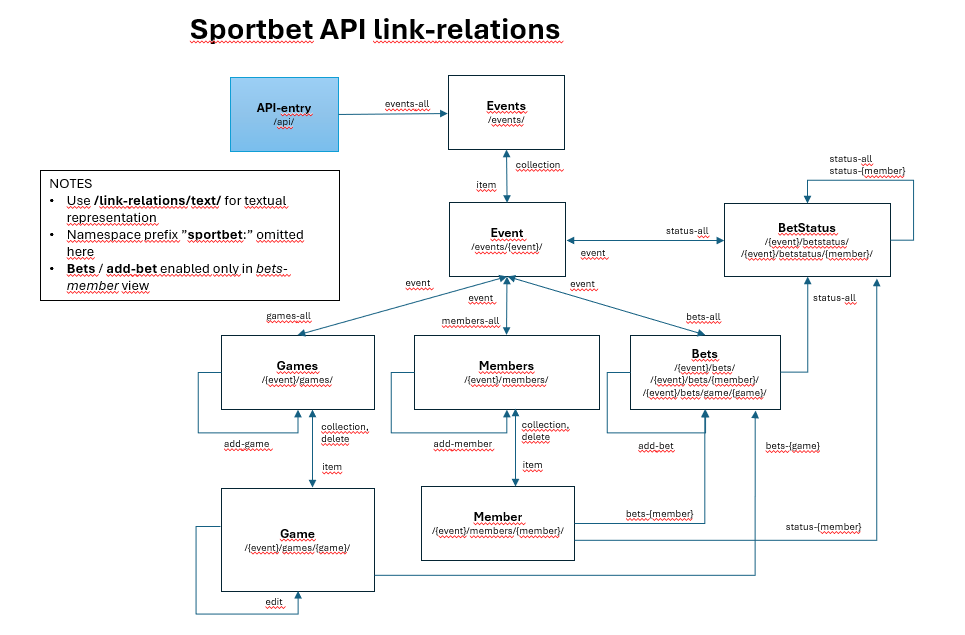
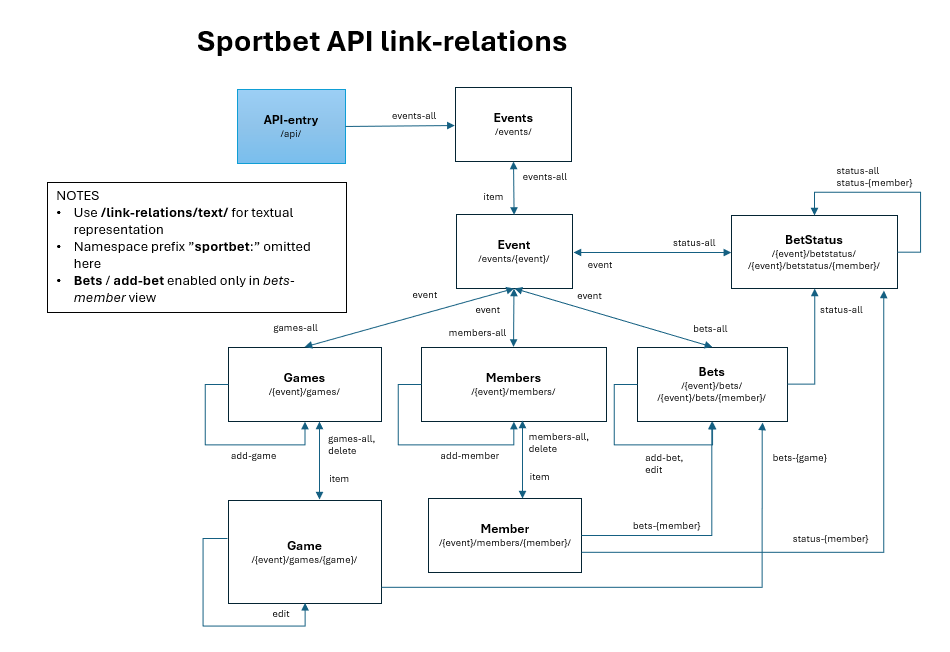
1. bet.py: split BetsMember POST to POST and PUT 2. member.py: removed transition from member to event 3. link-relations.png: updated for steps 1. and 2. 4. sportbet.yml: updated for steps 1. and 2. 5. utils.py: added comments for functions

Changed region(s): [[0.0305, 0.1197, 0.9768, 0.9874], [0.1832, 0.0299, 0.6105, 0.0898]]

diff --git a/sportbet-app/sportbet/utils.py b/sportbet-app/sportbet/utils.py
@@ -11,7 +11,14 @@ from sportbet.models import Event, Member, Game, Bet, ApiKey
 #  Used by multiple other files.
 # ------------------------------------------------------
 
-# Return local file content in response 
+"""
+Return local file content in response.
+    Parameters:
+     -  filename: full path to the file
+    Returns:
+     - 200 and file contents if successful
+     - 400 if file not found
+"""
 def send_local_file(filename):
     try:
         file = open(filename, "r") 
@@ -23,11 +30,27 @@ def send_local_file(filename):
     hdrs = {"Content-type": content_type}
     return Response(body, status = 200, headers=hdrs)
 
+"""
+Debug function to print the given message to the console.
+Hard-coded, switch "pass" and print() to disable/enable debugging.
+    Parameters:
+    - msg: message string to be printed
+    Returns:
+    - none
+"""
 def debug_print(msg):
     pass
     #print(msg)
 
-# Crete MASON-error for failed requests
+"""
+Crete MASON-error for failed requests.
+    Parameters:
+    - status: status code of the response
+    - title: error title as string
+    - msg: optional further explanation of the error
+    Returns:
+    - Response object for the error
+"""
 def error_response(status, title, msg=None):
     target_url = request.path
     data = MasonBuilder(resource_url=target_url)
@@ -35,7 +58,10 @@ def error_response(status, title, msg=None):
     data.add_control("profile", href=ERROR_PROFILE)
     return Response(json.dumps(data), status, mimetype=MASON)
 
-# Admin API-key validation - not used currently
+"""
+Admin API-key validation wrapper function - not used currently.
+To be used for admin API functionality in the future versions of API.
+"""
 def require_ADMIN_key(func):
     def wrapper(*args, **kwargs):
         key_hash = ApiKey.key_hash(request.headers.get(SPORTBET_API_KEY_NAME, "").strip())
@@ -45,11 +71,21 @@ def require_ADMIN_key(func):
         raise Forbidden
     return wrapper
 
-# Non-admin user API-key validation
+"""
+API-key validation, use as wrapper for each resource method which needs to 
+be protected from the outsiders.
+
+API-key is created by admin with click command "flask db-fill", save the 
+printed key for client software.
+
+NOTE: enable/disable for testing (browser usually) by commenting/un-commenting
+      the line 
+      "return func(self, *args, **kwargs)"
+"""
 def validate_API_key(func):
     def wrapper(self, *args, **kwargs):
         # Enable browser testing by uncommenting next line
-        # return func(self, *args, **kwargs)
+        return func(self, *args, **kwargs)
         if SPORTBET_API_KEY_NAME in request.headers:
             key_hash = ApiKey.key_hash(request.headers.get(SPORTBET_API_KEY_NAME).strip())
             db_key = ApiKey.query.filter_by(admin=False).first()
@@ -58,10 +94,12 @@ def validate_API_key(func):
         raise Forbidden
     return wrapper
     
-# ----------------- CONVERTERS -------------------------
-#  Convert string-identifier <--> Python database object
-# ------------------------------------------------------
-
+"""
+-------------------------------- CONVERTERS -------------------------------
+ Convert string-identifier <--> Python database object.
+ Registered in __init.py__ for resources using object identifiers in URLs. 
+--------------------------------------------------------------------------- 
+"""
 class EventConverter(BaseConverter):
     def to_python(self, event_name):
         db_obj = Event.query.filter_by(name=event_name).first()
@@ -212,7 +250,11 @@ class MasonBuilder(dict):
             method="DELETE",
             title=title,
         )
-        
+
+"""
+API-specific MASON-builder. Resources use these classes and methods to 
+create hypertext-responses e.g. for automated clients.
+"""      
 class SportbetBuilder(MasonBuilder):
 
     # GET controls to show items
@@ -319,7 +361,7 @@ class SportbetBuilder(MasonBuilder):
     def add_control_add_bet(self, event, member):
         self.add_control_post(
             SPORTBET_NAMESPACE + ":add-bet",
-            "Add or edit bet for " + member.nickname,
+            "Add bet for " + member.nickname,
             url_for("api.betsmember", event=event, member=member),
             Bet.json_schema(full_format=False)
         )
@@ -330,4 +372,10 @@ class SportbetBuilder(MasonBuilder):
             "Edit game",
             url_for("api.gameitem", event=event, game=game),
             Game.json_schema(only_goals=True)
+        )
+    def add_control_edit_bet(self, event, member):
+        self.add_control_put(
+            "Edit bet",
+            url_for("api.betsmember", event=event, member=member),
+            Bet.json_schema(full_format=False)
         )

diff --git a/sportbet-app/sportbet/resources/bet.py b/sportbet-app/sportbet/resources/bet.py
@@ -46,6 +46,7 @@ class BetsMember(Resource):
         body.add_control("self", url_for("api.betsmember", event=event, member=member), title="This resource")
         body.add_control_all_bets(event)
         body.add_control_add_bet(event, member)
+        body.add_control_edit_bet(event, member)
         bets = Bet.query.filter_by(member=member).join(Bet.game).order_by(Game.game_nbr).all()
         body["items"] = []
         for bet in bets:
@@ -57,8 +58,42 @@ class BetsMember(Resource):
     @validate_API_key
     def post(self, event, member):
         """
-        Add new bet if not existing for this member for the given game.
-        If bet is already found, update bet data (PUT method not needed).
+        Add new bet for the given member (if not existing for the given game).
+        """
+        try:
+            if not request.json:
+                return error_response(415, "Unsupported media type", "JSON required")
+            validate(request.json, Bet.json_schema(full_format=False))
+            bet = Bet()
+            bet.deserialize(request.json)
+            if bet.home_goals < 0 or bet.guest_goals < 0:
+                return error_response(401, "Bet goals must not be negative")
+            game = Game.query.filter_by(event=event, game_nbr=bet.game_nbr).first()
+            if not game:
+                return error_response(404, "Game not found")
+            # check bet not already existing
+            old_bet = Bet.query.filter_by(game=game, member=member).first()
+            if old_bet:
+                return error_response(409, "Bet already exists for the given member and game")
+            # set relations and save the bet
+            bet.member = member
+            bet.game = game
+            db.session.add(bet)
+            db.session.commit()
+            debug_print(event.name + "/Game-" + game.game_nbr + "/" + member.nickname + "/" + game.home_team + "-" + game.guest_team + " " + str(bet.home_goals) + "-" + str(bet.guest_goals) + " bet added")
+            hdrs = {"Location": url_for("api.betsmember", event=event, member=member)}
+            return Response(status=201, headers=hdrs)
+        except ValidationError as e:
+            return error_response(400, "Invalid JSON document", str(e))
+        except KeyError:
+            return error_response(400, "Missing parameter", "See schema requirements")
+        except ValueError:
+            return error_response(400, "Invalid parameter format", "See schema requirements")
+
+    @validate_API_key
+    def put(self, event, member):
+        """
+        Update bet for the given member.
         """
         try:
             if not request.json:
@@ -71,19 +106,15 @@ class BetsMember(Resource):
             game = Game.query.filter_by(event=event, game_nbr=request_bet.game_nbr).first()
             if not game:
                 return error_response(404, "Game not found")
-            # create new bet if old not found
             bet = Bet.query.filter_by(game=game, member=member).first()
-            status_code = 204
             if not bet:
-                status_code = 201
-                bet = Bet(member=member, game=game)
-                db.session.add(bet)
+                return error_response(404, "Bet not found")
             bet.home_goals = request_bet.home_goals
             bet.guest_goals = request_bet.guest_goals
             db.session.commit()
-            debug_print(event.name + "/Game-" + game.game_nbr + "/" + member.nickname + "/" + game.home_team + "-" + game.guest_team + " " + str(bet.home_goals) + "-" + str(bet.guest_goals) + " bet saved")
+            debug_print(event.name + "/Game-" + game.game_nbr + "/" + member.nickname + "/" + game.home_team + "-" + game.guest_team + " " + str(bet.home_goals) + "-" + str(bet.guest_goals) + " bet updated")
             hdrs = {"Location": url_for("api.betsmember", event=event, member=member)}
-            return Response(status = status_code, headers = hdrs)
+            return Response(status = 204, headers = hdrs)
         except ValidationError as e:
             return error_response(400, "Invalid JSON document", str(e))
         except KeyError:

diff --git a/sportbet-app/sportbet/resources/member.py b/sportbet-app/sportbet/resources/member.py
@@ -68,7 +68,6 @@ class MemberItem(Resource):
         body.add_namespace(SPORTBET_NAMESPACE, LINK_RELATIONS_URL)
         body.add_control("self", url_for("api.memberitem", event=event, member=member), title="This resource")
         body.add_control("profile", MEMBER_PROFILE, title="Member profile")
-        body.add_control_single_event(event)
         body.add_control_all_members(event)
         body.add_control_member_bets(event, member)
         body.add_control_betting_status(event, member)
